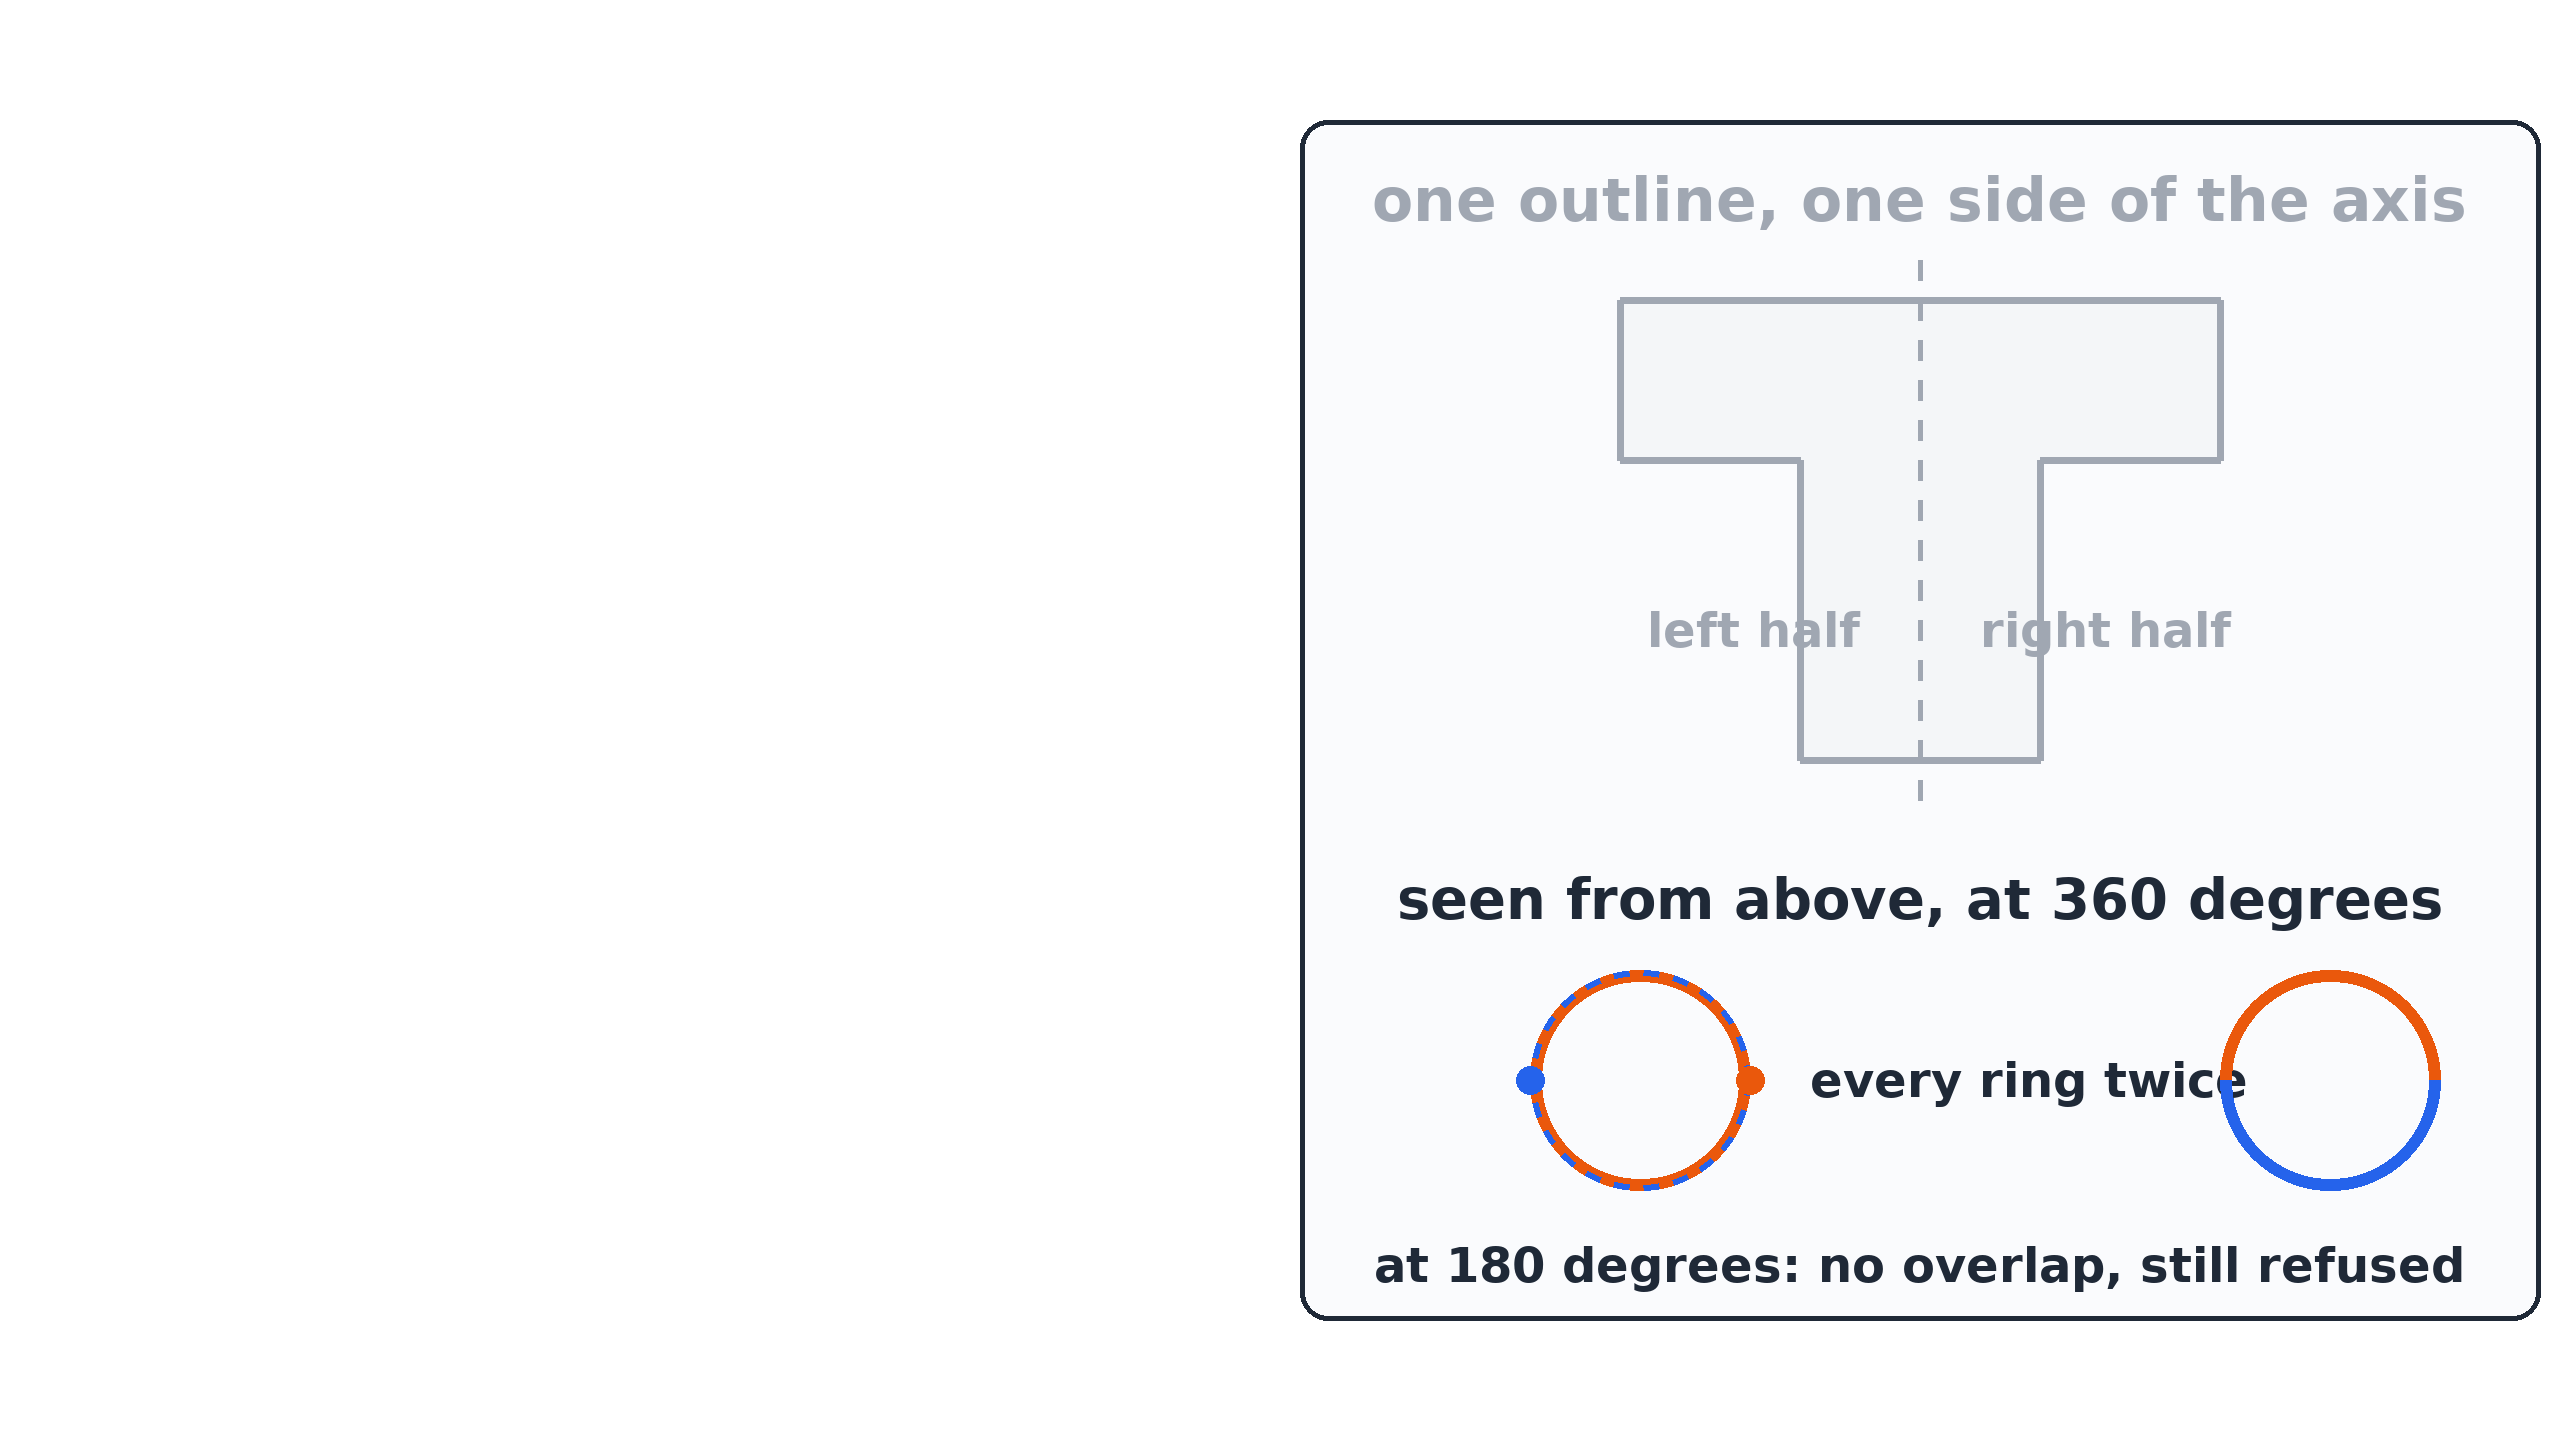
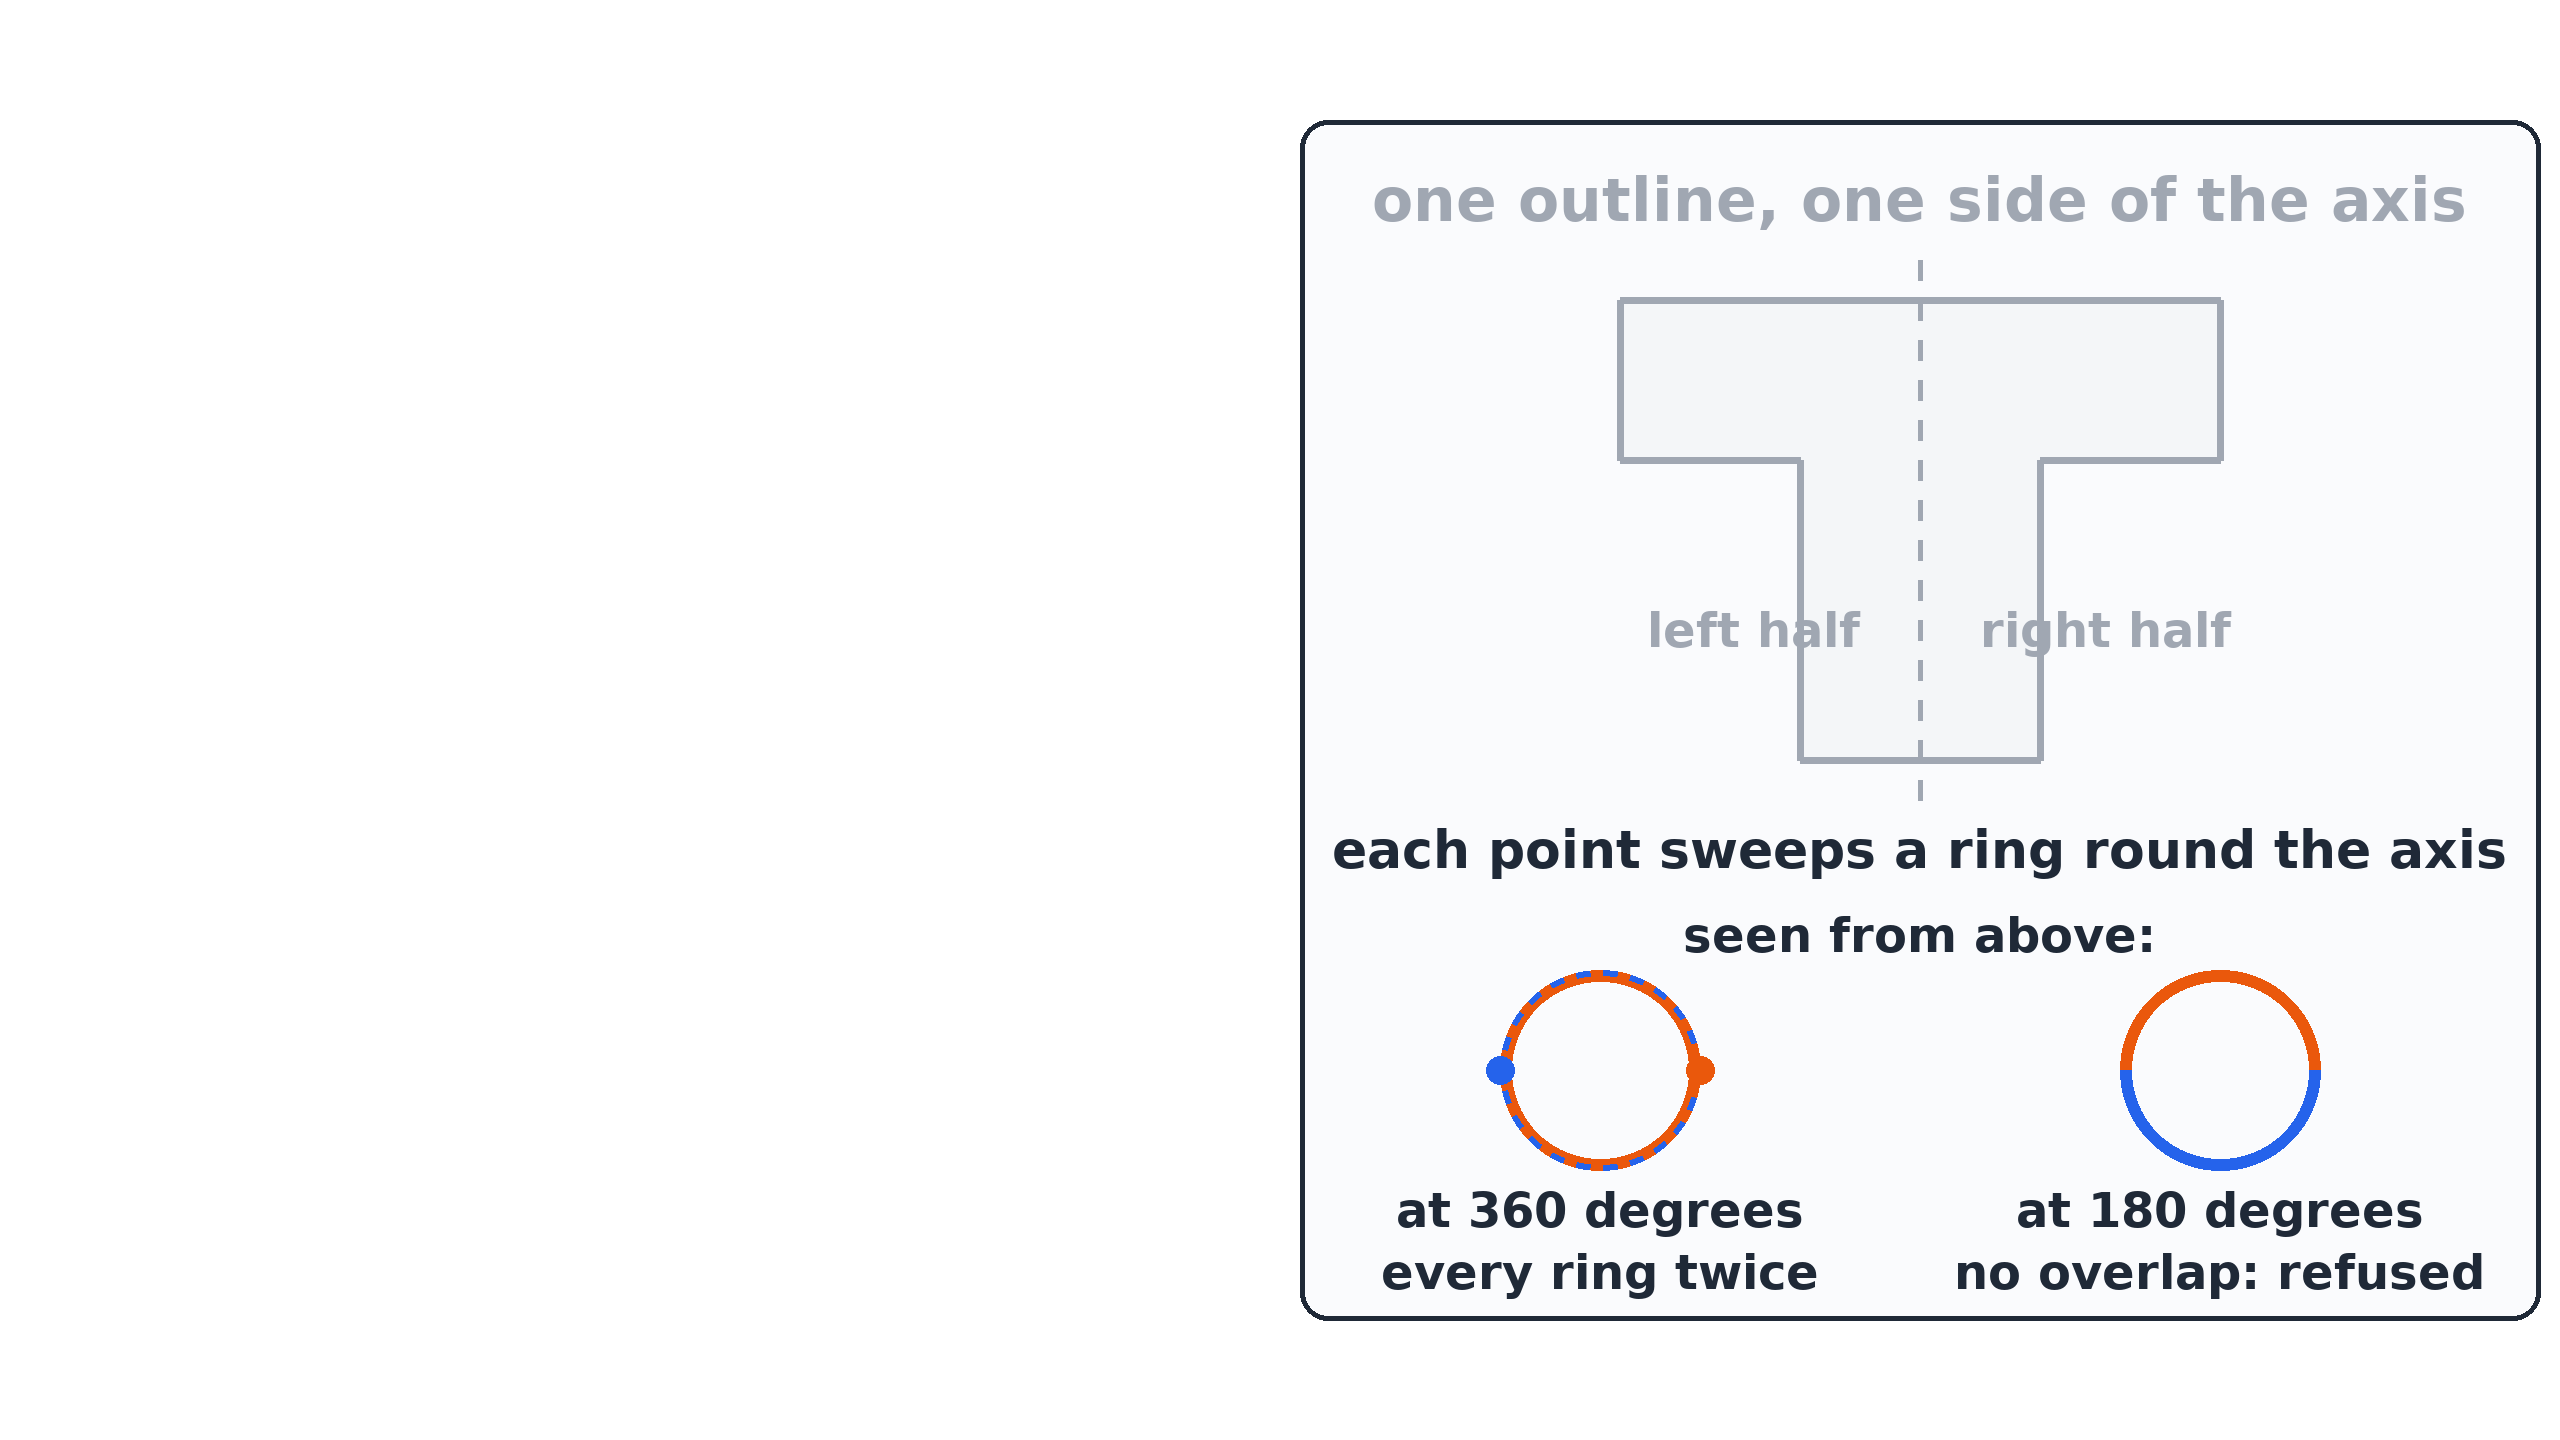
fx10 cut 2 (watch-through c1 must-fix 3): card-sides-2 says 'each point sweeps a ring round the axis' before 'every ring twice'; each circle labelled with its angle ('at 360 degrees' / 'at 180 degrees', 'no overlap: refused'). Test red first (1 failed), then 9 pass

Changed region(s): [[0.5312, 0.5625, 0.9688, 0.9062], [0.9375, 0.6875, 0.9688, 0.8125]]

diff --git a/video/draw_fx10.py b/video/draw_fx10.py
@@ -240,17 +240,21 @@ def card_sides(step):
     text(d, (cx - 60, top + 330), 'left half', 48, (BLUE if on else DONE) + (255,), anchor='rm')
     text(d, (cx + 60, top + 330), 'right half', 48, (ORANGE if on else DONE) + (255,), anchor='lm')
     if step >= 2:
-        text(d, (1920, 900), 'seen from above, at 360 degrees', 56, INK + (255,), anchor='mm', maxw=1200)
-        c1, cy, r = (1640, 1080, 110)
+        # cut 2 (watch-through c1 must-fix 3): the sweep first, then each circle labelled with its own angle
+        text(d, (1920, 850), 'each point sweeps a ring round the axis', 52, INK + (255,), anchor='mm', maxw=1200)
+        text(d, (1920, 935), 'seen from above:', 48, INK + (255,), anchor='mm', maxw=1200)
+        c1, cy, r = (1600, 1070, 100)
         d.ellipse((c1 - r, cy - r, c1 + r, cy + r), outline=ORANGE + (255,), width=12)
         dashed_arc(d, (c1 - r, cy - r, c1 + r, cy + r), 0, 360, BLUE + (255,), width=6, step=8)
         d.ellipse((c1 + r - 14, cy - 14, c1 + r + 14, cy + 14), fill=ORANGE + (255,))
         d.ellipse((c1 - r - 14, cy - 14, c1 - r + 14, cy + 14), fill=BLUE + (255,))
-        text(d, (c1 + 170, cy), 'every ring twice', 48, INK + (255,), anchor='lm')
-        c2 = 2330
+        text(d, (c1, 1210), 'at 360 degrees', 48, INK + (255,), anchor='mm')
+        text(d, (c1, 1272), 'every ring twice', 48, INK + (255,), anchor='mm')
+        c2 = 2220
         d.arc((c2 - r, cy - r, c2 + r, cy + r), 180, 360, fill=ORANGE + (255,), width=12)
         d.arc((c2 - r, cy - r, c2 + r, cy + r), 0, 180, fill=BLUE + (255,), width=12)
-        text(d, (1920, 1265), 'at 180 degrees: no overlap, still refused', 48, INK + (255,), anchor='mm', maxw=1200)
+        text(d, (c2, 1210), 'at 180 degrees', 48, INK + (255,), anchor='mm')
+        text(d, (c2, 1272), 'no overlap: refused', 48, INK + (255,), anchor='mm')
     save(im, f'card-sides-{step}.png')
 
 

diff --git a/tests/test_draw_fx10.py b/tests/test_draw_fx10.py
@@ -101,8 +101,12 @@ def test_labels_from_the_script(drawn):
     t = lambda n: ' '.join(s for s, _ in drawn.LOG[n])  # noqa: E731
     assert 'card edge = profile' in t('card-wheel-3.png') and 'spindle = axis' in t('card-wheel-3.png')
     assert 'one outline, one side of the axis' in t('card-sides-1.png')
-    assert 'seen from above, at 360 degrees' in t('card-sides-2.png')
-    assert 'at 180 degrees: no overlap, still refused' in t('card-sides-2.png')
+    # cut 2 (watch-through c1 must-fix 3): the sweep before "every ring twice"; each circle labelled with its angle
+    s2 = drawn.LOG['card-sides-2.png']
+    said = [s for s, _ in s2]
+    assert said.index('each point sweeps a ring round the axis') < said.index('every ring twice')
+    assert 'seen from above:' in said and 'at 360 degrees' in said and 'at 180 degrees' in said
+    assert 'no overlap: refused' in said
     assert 'half-width 15 mm' in t('card-radius-1.png') and '15 x 2 = 30 mm across' in t('card-radius-2.png')
     assert 'one side of an endless line' in t('card-sofar-2.png')
     assert 'Square 5 mm off the axis.' in t('card-question-1.png')
